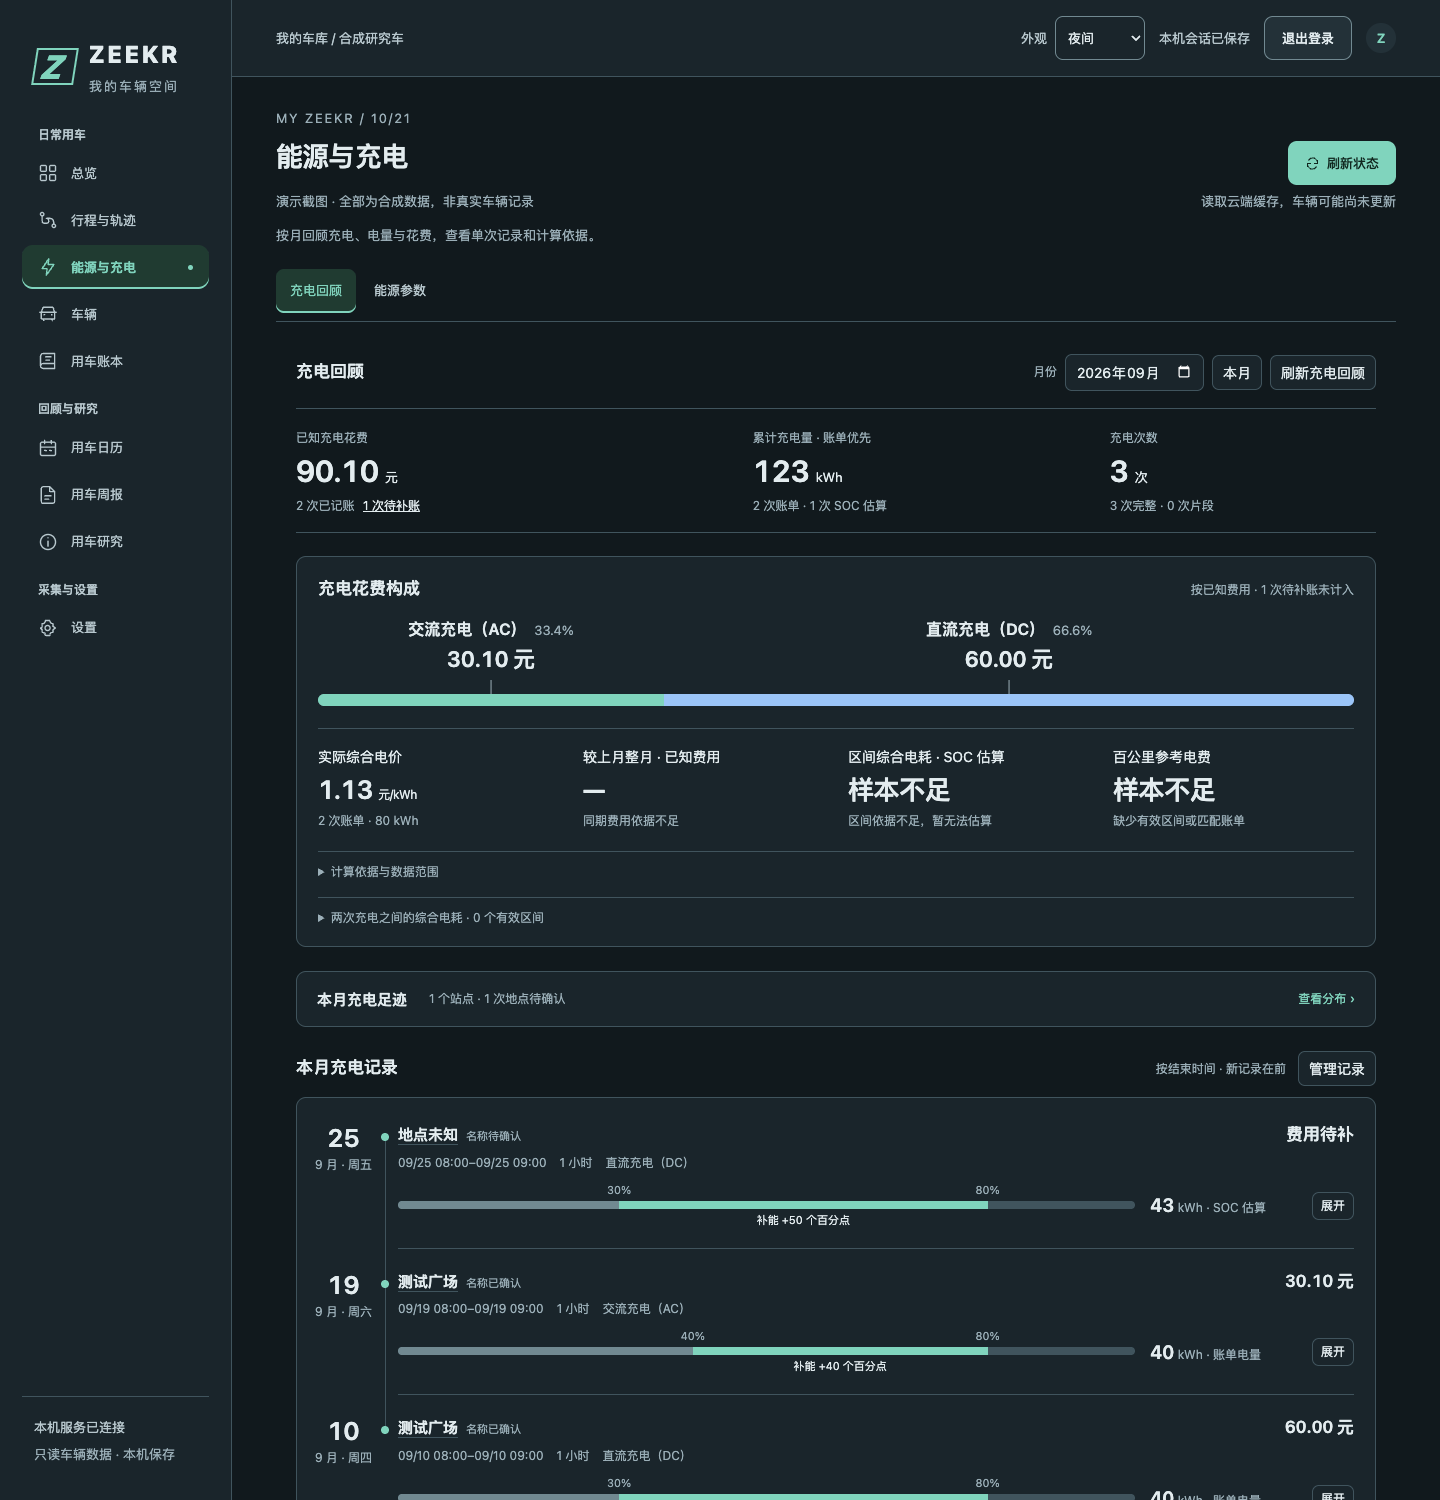
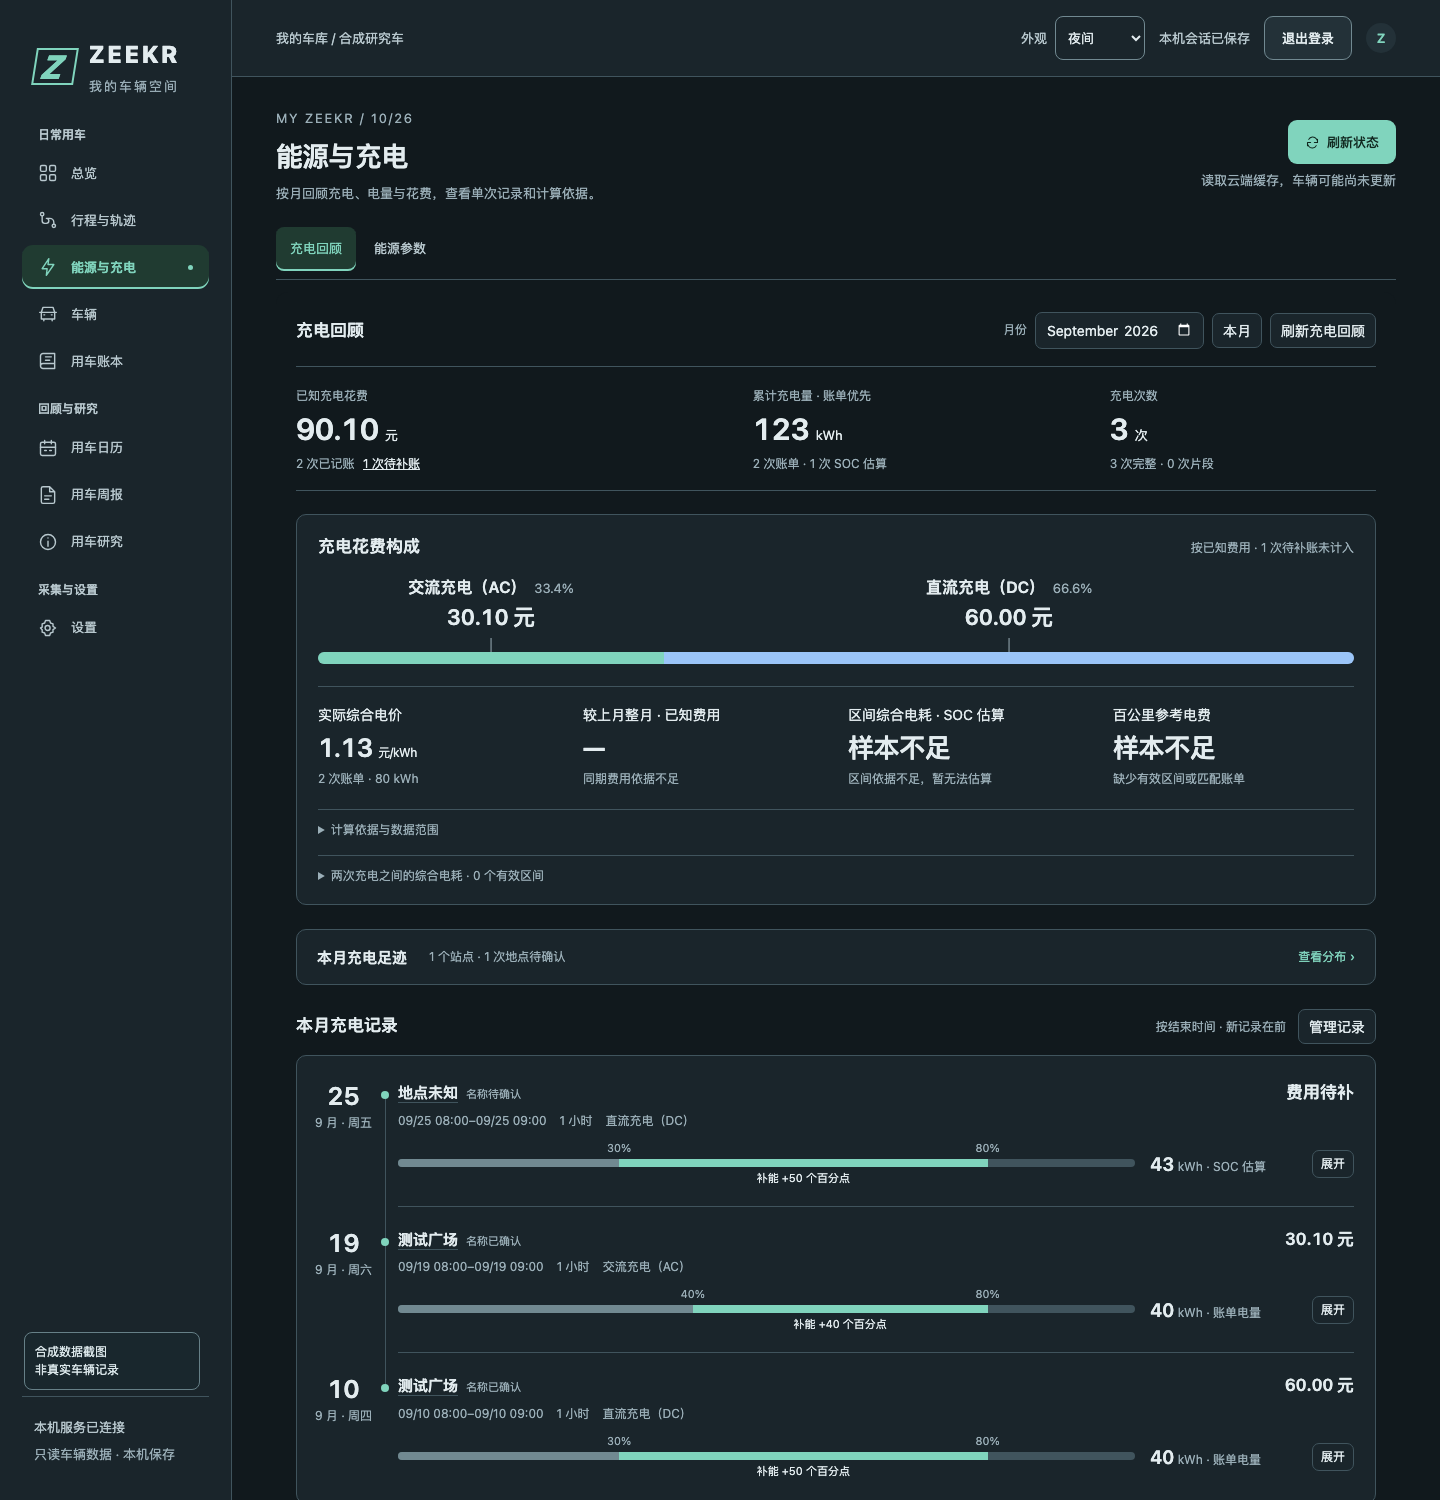
docs: refresh README screenshots from isolated synthetic desktop pages

diff --git a/docs/images/README.md b/docs/images/README.md
@@ -1,9 +1,11 @@
 # README 截图
 
-这些 PNG 来自项目当前桌面界面，全部使用隔离的合成数据。截图不是实车记录，也不是用户的真实行程、账目或地点。
+这些 PNG 于 2026-10-26 从当前仓库的桌面界面重新生成。截图服务使用临时目录、合成会话与测试数据库，不读取生产账号或业务库；车辆名称、日期、金额、行程和地点均为演示数据。每张图的侧栏都带有“合成数据截图／非真实车辆记录”标记。
 
 - `local-trips.png`：连续出行链与 24 小时出行节奏。
 - `charging-review.png`：月度充电回顾与费用分析。
+- `costs-overview.png`：分类环图、支出明细与费用趋势。
+- `usage-report.png`：图形化两期对照，选用自然月展示里程、耗电、充电与实付变化。
 - `charging-ledger.png`：统一补账与账单管理。
 - `expense-ledger.png`：生活支出分类图与流水。
 - `trip-tags.png`：标签分布、逐趟标注与分析。
@@ -15,9 +17,13 @@
 ```bash
 npm ci
 npm run browser:install
-node scripts/capture-readme.cjs
+DESKTOP_ONLY=1 node scripts/capture-readme.cjs
 ```
 
-脚本启动临时本地测试服务，不读取真实账号会话或生产数据库，不请求车辆云端，不打开定位与地图。图片固定为 1440 × 1500 的桌面视口，并标注合成数据来源。可通过 `CHROMIUM_EXECUTABLE` 指定已安装的 Chromium。
+脚本复用 `tests/insights_fixture.py` 和 `tests/recall_fixture.py` 的隔离测试服务，车辆客户端被测试替身禁止调用。浏览器使用新建的空白上下文，只允许请求自身的临时回环服务；外部请求被阻止，第三方请求清单必须为空。不打开定位与地图，不发送真实通知。
 
-生成前会检查可见文字中的手机号、车牌、凭据样式、精确坐标及测试专用隐私占位符；仍需人工查看每张图，核对没有隐私内容、布局裁切或加载错误。PNG 不附带浏览器地址栏或账号登录表单。
+图片固定为 1440 × 1500 的夜间主题桌面视口，不做手机截图。报告比较时间固定，数据来自既有合成 fixture；没有改写真实记录或用静态 HTML 冒充页面。可通过 `CHROMIUM_EXECUTABLE` 指定已安装的 Chromium。
+
+生成前检查可见文字中的手机号、车牌、VIN、凭据样式、精确坐标及测试专用隐私占位符；同时检查合成标记、水平溢出和第三方嵌入。合成标记独立于页面轮询刷新，避免被重新渲染移除。生成后仍须逐张查看，确认没有隐私内容、加载错误或关键内容遮挡。
+
+PNG 是页面视口截图，长页面下方内容需要滚动，不宣称一张图覆盖整个页面。图片不附带浏览器地址栏、真实车辆照片或账号登录表单；本轮只更新截图、说明和重拍脚本，不修改或重启生产服务。

diff --git a/README.md b/README.md
@@ -209,11 +209,40 @@ GitHub 保留四项必要检查：`Python tests`、`Desktop tests`、`macOS nati
 
 ## 界面样例
 
-以下为隔离合成数据的桌面截图，不含实车账号、轨迹或账目；布局以当前运行版本为准。更多样例与重拍方法见 [截图说明](docs/images/README.md)。
+以下为当前页面在隔离测试服务中的桌面截图，均标有“合成数据截图”。车辆名称、日期、地点、里程与金额全部为演示值；未连接真实车辆，未打开地图。重拍方法与隐私检查见 [截图说明](docs/images/README.md)。
 
 ![行程与轨迹：连续出行链与出行节奏，合成数据](docs/images/local-trips.png)
 
 ![能源与充电：月度回顾与费用分析，合成数据](docs/images/charging-review.png)
+
+<details>
+<summary>查看费用环图、图形化报告、账本与行程标签</summary>
+
+### 费用总览
+
+分类环图与对应支出明细并排展示，支持按分类查看记录。
+
+![费用总览：分类环图与支出明细，合成数据](docs/images/costs-overview.png)
+
+### 图形化周月报
+
+以下选取自然月演示：对照上期里程、耗电、充电与实付，保留未知和片段说明。
+
+![图形化报告：两期变化、能源与实付对照，合成数据](docs/images/usage-report.png)
+
+### 充电账本
+
+![充电账本：已填费用、未关联充电与账单管理，合成数据](docs/images/charging-ledger.png)
+
+### 生活账本
+
+![生活账本：分类支出与流水，合成数据](docs/images/expense-ledger.png)
+
+### 行程标签
+
+![行程标签：标签分布、通勤分析与逐趟标注，合成数据](docs/images/trip-tags.png)
+
+</details>
 
 ## 文档导航
 
